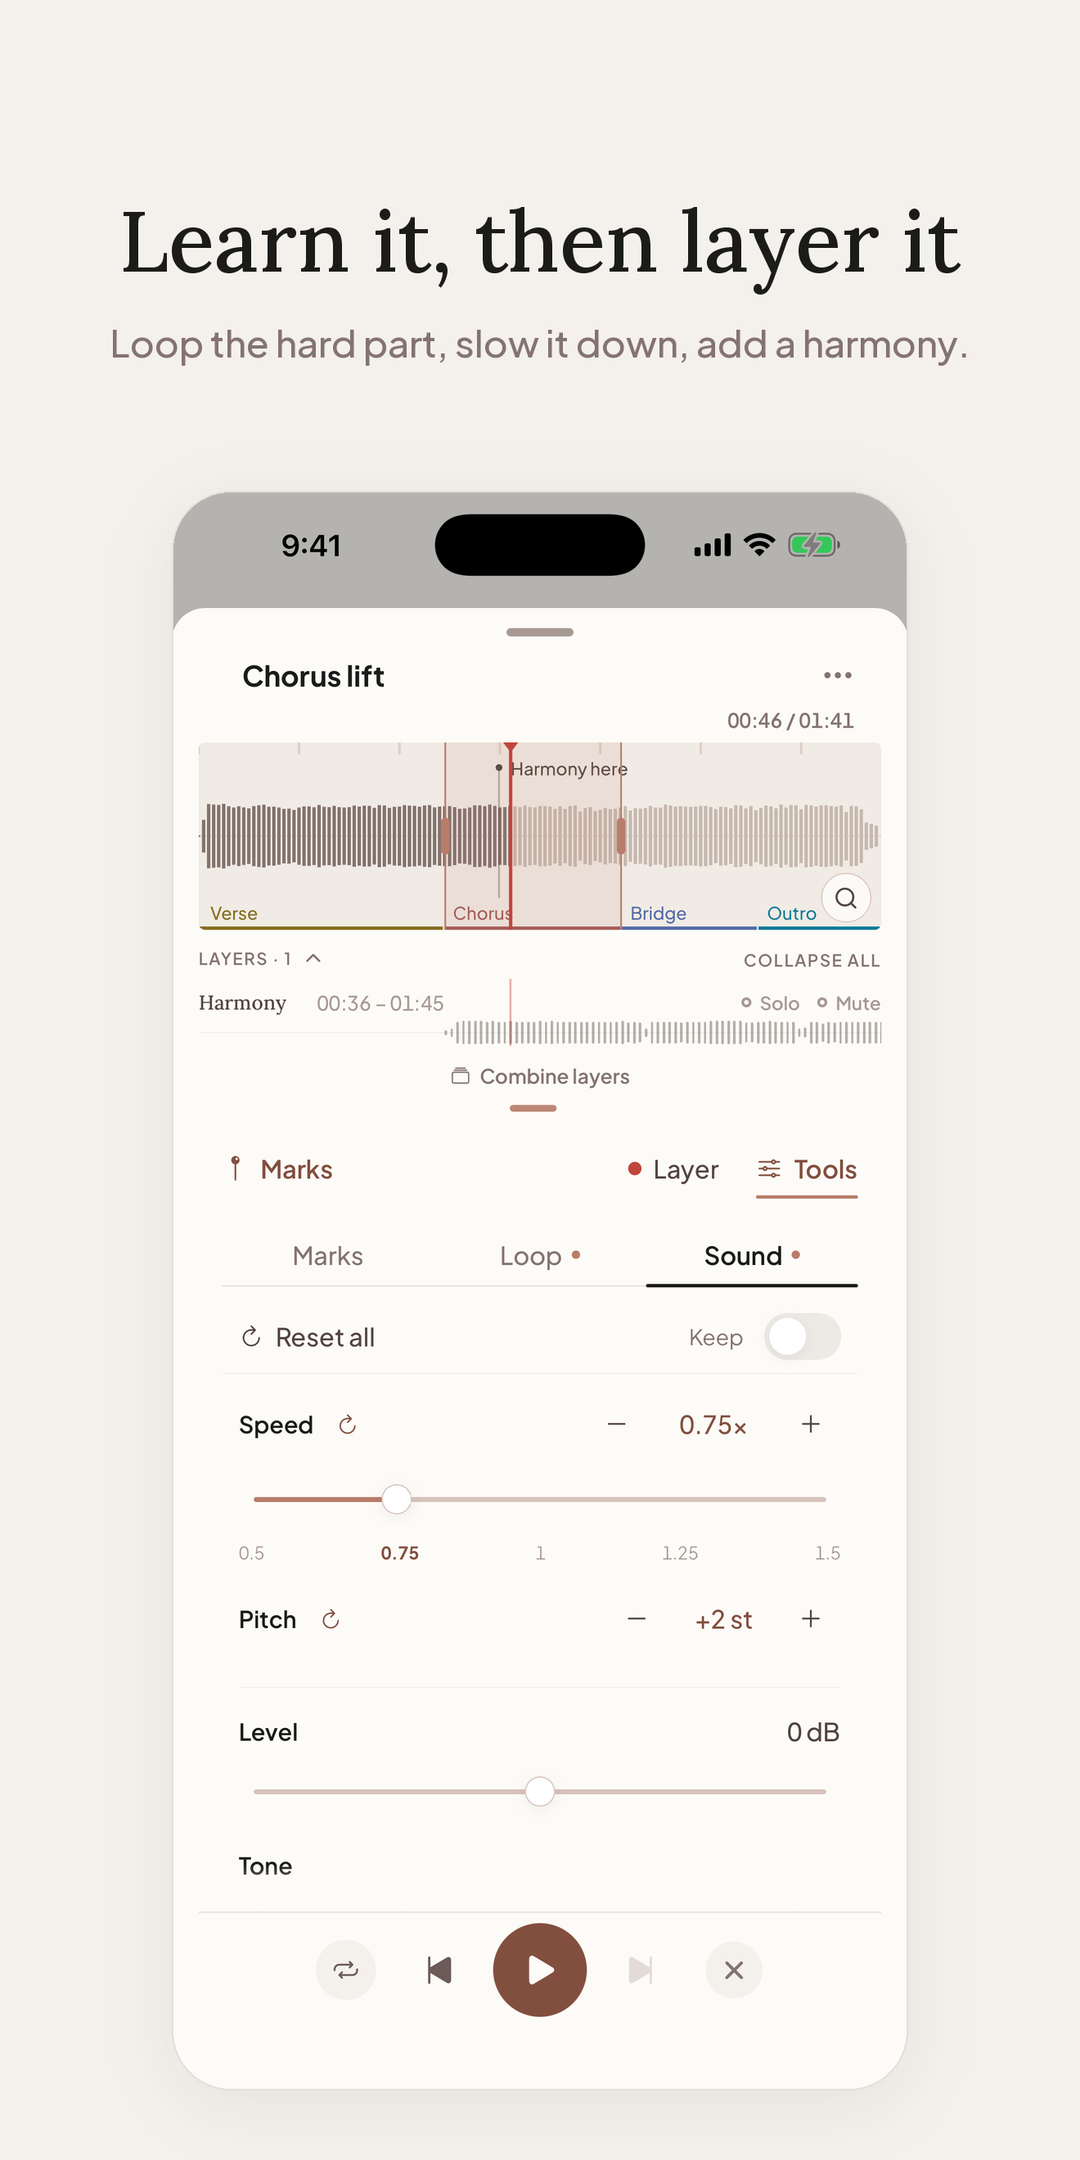
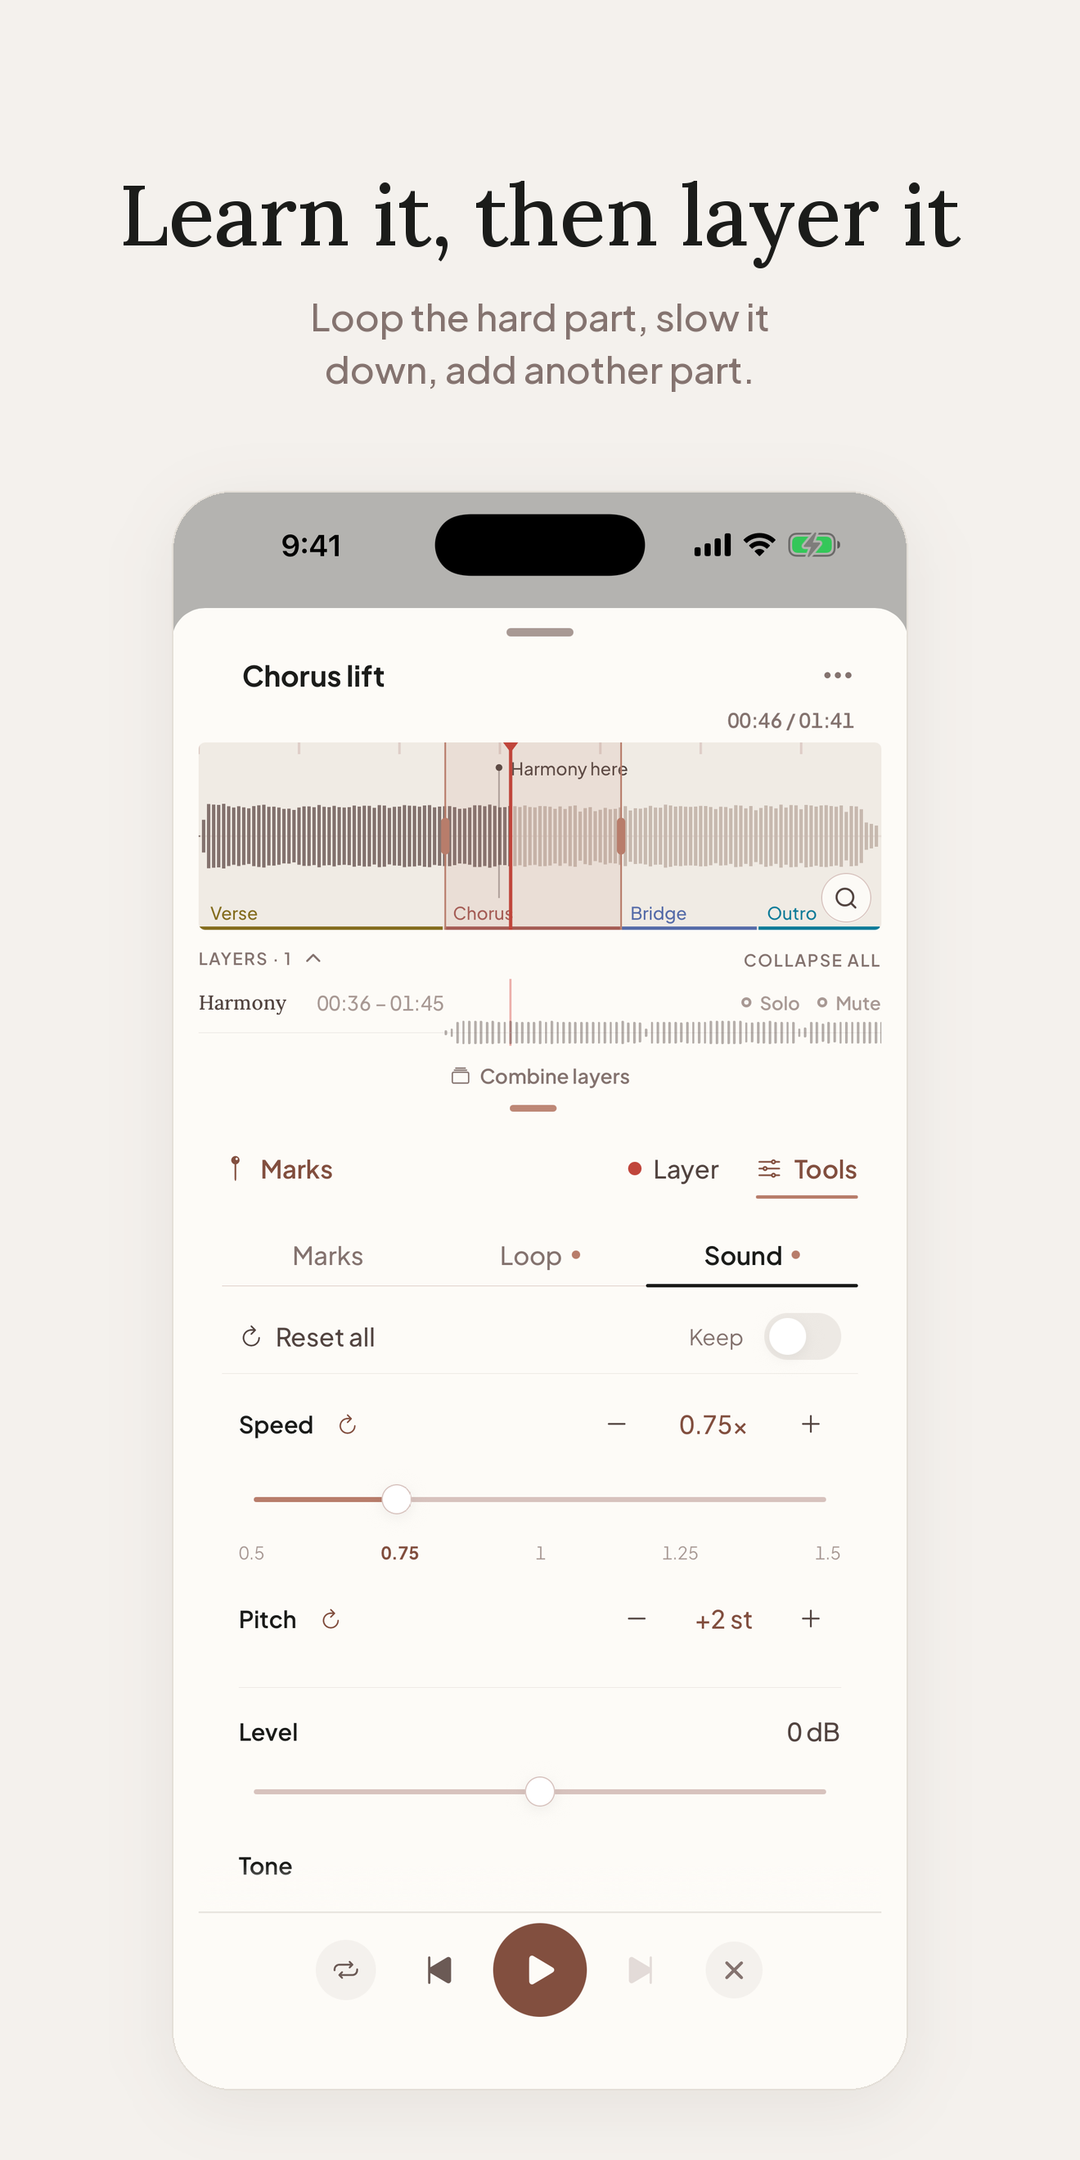
Store captions: another part, writing exercises
Founder, 2026-11-14: screenshot 4 says a layer can be any part, screenshot 5
calls Lyric Spark writing exercises, not word games. Play and iPhone images
re-made; the iPhone ones go up with the next iOS version.

Changed region(s): [[0.1222, 0.062, 0.8861, 0.1861]]

diff --git a/scripts/store/compose-screenshots.py b/scripts/store/compose-screenshots.py
@@ -39,8 +39,8 @@ FRAMES = [
     ("01-capture", "recorder", "Catch it before it's gone", "Tap once and you're recording."),
     ("02-sketch", "sketch-b", "Every idea grows into a song", "Takes, versions and side ideas in one sketch."),
     ("03-write", "lyrics-b", "Lyrics and chords, every draft kept", "Write, chart and transpose in one place."),
-    ("04-practice", "practice-sound", "Learn it, then layer it", "Loop the hard part, slow it down, add a harmony."),
-    ("05-words", "words-a", "Stuck on a line?", "Lyric Spark: word games to get past writer's block."),
+    ("04-practice", "practice-sound", "Learn it, then layer it", "Loop the hard part, slow it down, add another part."),
+    ("05-words", "words-a", "Stuck on a line?", "Lyric Spark: writing exercises to get past the block."),
     ("06-organize", "collection", "Get organized", "Workspaces and collections for every project."),
     ("07-revisit", "revisit-b", "Never lose a gem", "Revisit brings back the ones you forgot."),
     ("08-send", "received-player", "Send the song, not just the audio", "Lyrics, chords, notes and marks go with it."),

diff --git a/docs/product-plan/store-truth.md b/docs/product-plan/store-truth.md
@@ -259,8 +259,8 @@ plus the lines saved as a DRAFT on the default listing, not yet sent for review.
 | 1 | Recorder, mid-take | Catch it before it's gone / Tap once and you're recording. |
 | 2 | Harbor Lights sketch, versions unfolded | Every idea grows into a song / Takes, versions and side ideas in one sketch. |
 | 3 | Lyrics with chords | Lyrics and chords, every draft kept / Write, chart and transpose in one place. |
-| 4 | Player: sections, pin, layer, chorus loop, 0.75×, +2 st | Learn it, then layer it / Loop the hard part, slow it down, add a harmony. |
-| 5 | Borrowed Words page with phrases marked | Stuck on a line? / Lyric Spark: word games to get past writer's block. |
+| 4 | Player: sections, pin, layer, chorus loop, 0.75×, +2 st | Learn it, then layer it / Loop the hard part, slow it down, add another part. (2026-11-14) |
+| 5 | Borrowed Words page with phrases marked | Stuck on a line? / Lyric Spark: writing exercises to get past the block. (2026-11-14) |
 | 6 | Album demos collection | Get organized / Workspaces and collections for every project. |
 | 7 | Revisit | Never lose a gem / Revisit brings back the ones you forgot. |
 | 8 | A received sketch in the player: marks, layer, lyrics, chart, the sender's note | Send the song, not just the audio / Lyrics, chords, notes and marks go with it. |
